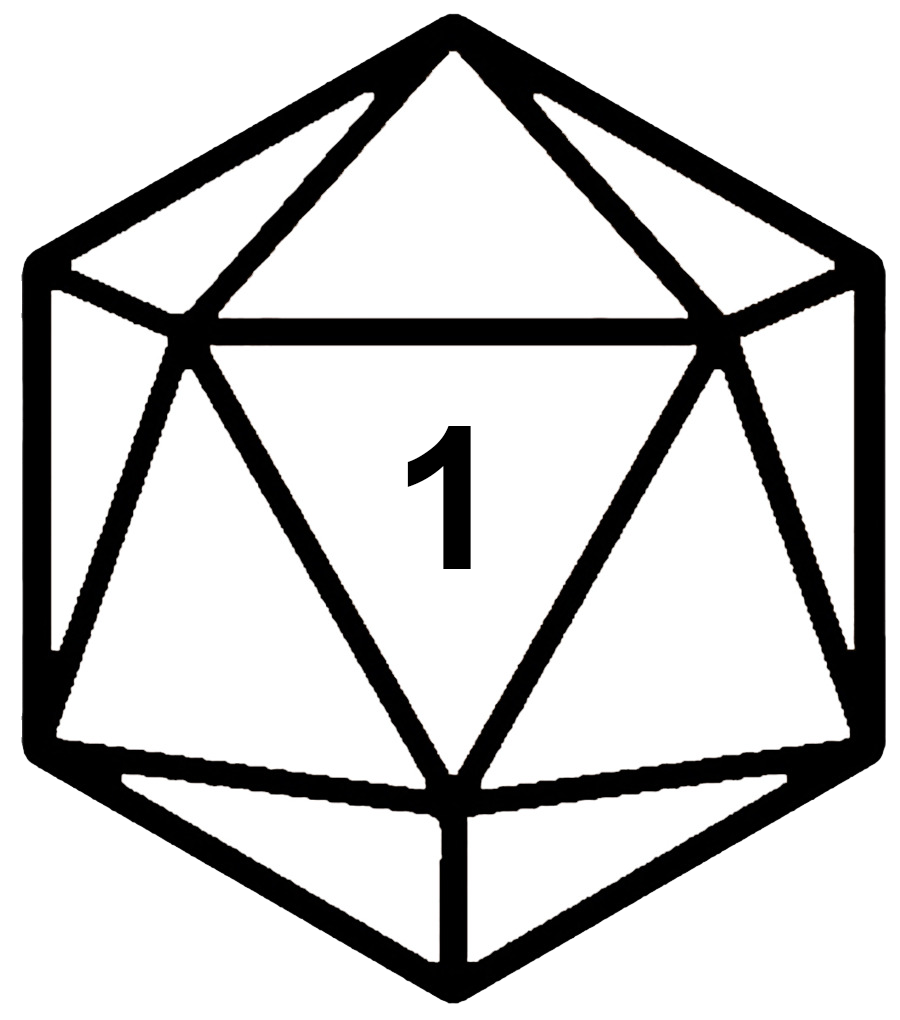
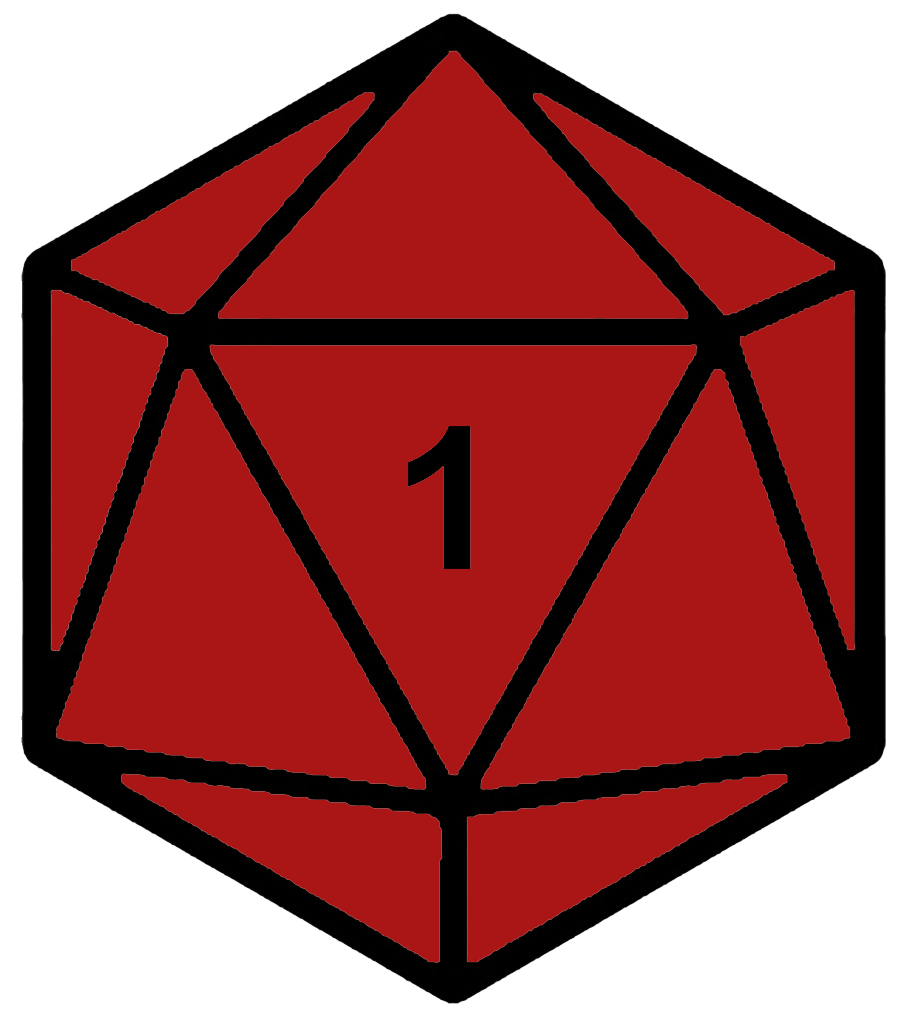
Updated natural 20 and 1 images to color variation

diff --git a/AurleenBot.py b/AurleenBot.py
@@ -17,6 +17,8 @@ roll_stats = True
 prev_call = ""
 d20_stats = [0] * 20
 d20_rolled = 0
+nat20_img = "https://i.imgur.com/5wigsBM.png" # color; blank: https://i.imgur.com/vRMbnn9.png
+nat1_img = "https://i.imgur.com/jfV3bEg.png" # color; blank: https://i.imgur.com/zB9gKje.png
 
 # Load data from json file
 try:
@@ -212,6 +214,8 @@ async def on_message(message):
                         value="Add + or - your modifier dice to add it to the total of the roll", inline=False)
         embed.add_field(name="All commands also support a modifier, e.g. !r1d20+5 or !r1d20+1d4-2",
                         value="Add + or - your modifier to add it to the total of the roll", inline=False)
+        embed.add_field(name="Note: You can also roll privately",
+                        value="Just DM me on Discord", inline=False)
         embed.set_footer(text="pls don't break me")
         await message.channel.send(embed=embed)
         print("[" + str(message.author) + "] Showed info")
@@ -364,19 +368,19 @@ async def on_message(message):
             total_result = min(d20s)
             if total_result == 20:
                 footer = "NATURAL 20"
-                embed.set_thumbnail(url="https://i.imgur.com/vRMbnn9.png")
+                embed.set_thumbnail(url=nat20_img)
             elif total_result == 1:
                 footer = "NATURAL 1"
-                embed.set_thumbnail(url="https://i.imgur.com/zB9gKje.png")
+                embed.set_thumbnail(url=nat1_img)
             # end if/elif
         else:
             total_result = max(d20s)
             if total_result == 20:
                 footer = "NATURAL 20"
-                embed.set_thumbnail(url="https://i.imgur.com/vRMbnn9.png")
+                embed.set_thumbnail(url=nat20_img)
             elif total_result == 1:
                 footer = "NATURAL 1"
-                embed.set_thumbnail(url="https://i.imgur.com/zB9gKje.png")
+                embed.set_thumbnail(url=nat1_img)
             # end if/elif
         # end if/else
 
@@ -679,10 +683,10 @@ async def on_message(message):
 
             if result == 20:
                 footer = "NATURAL 20"
-                embed.set_thumbnail(url="https://i.imgur.com/vRMbnn9.png")
+                embed.set_thumbnail(url=nat20_img)
             elif result == 1:
                 footer = "NATURAL 1"
-                embed.set_thumbnail(url="https://i.imgur.com/zB9gKje.png")
+                embed.set_thumbnail(url=nat1_img)
             # end if/elif
 
             # Add d20 statistics
